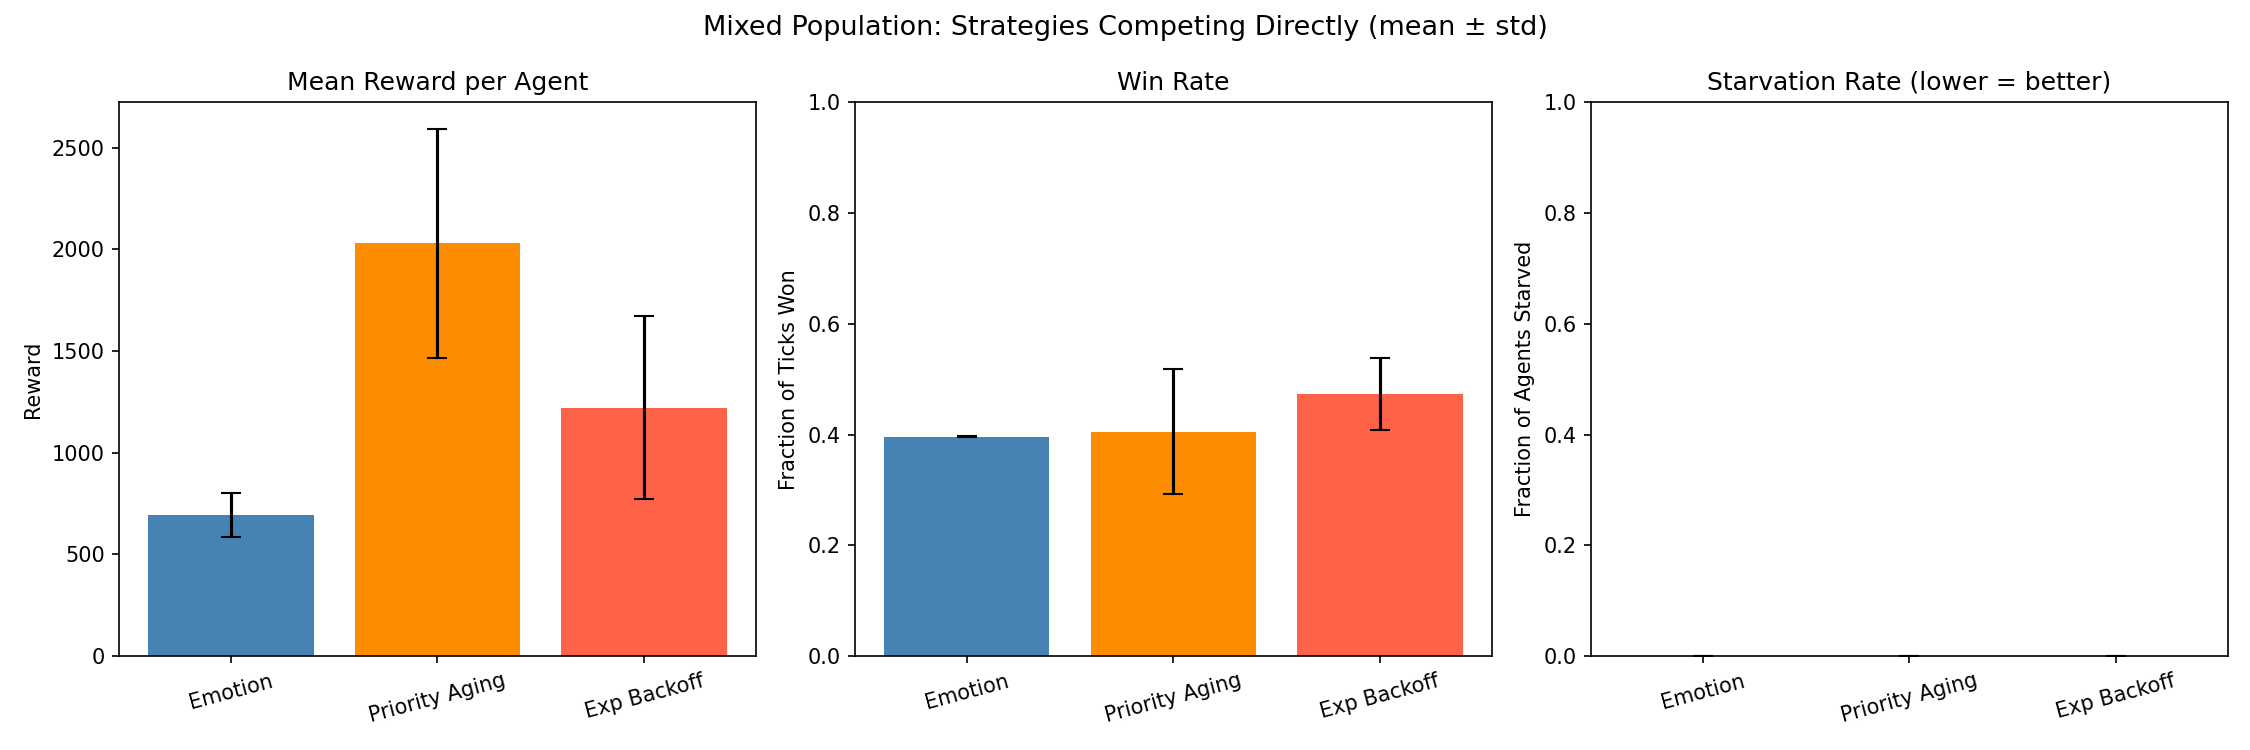
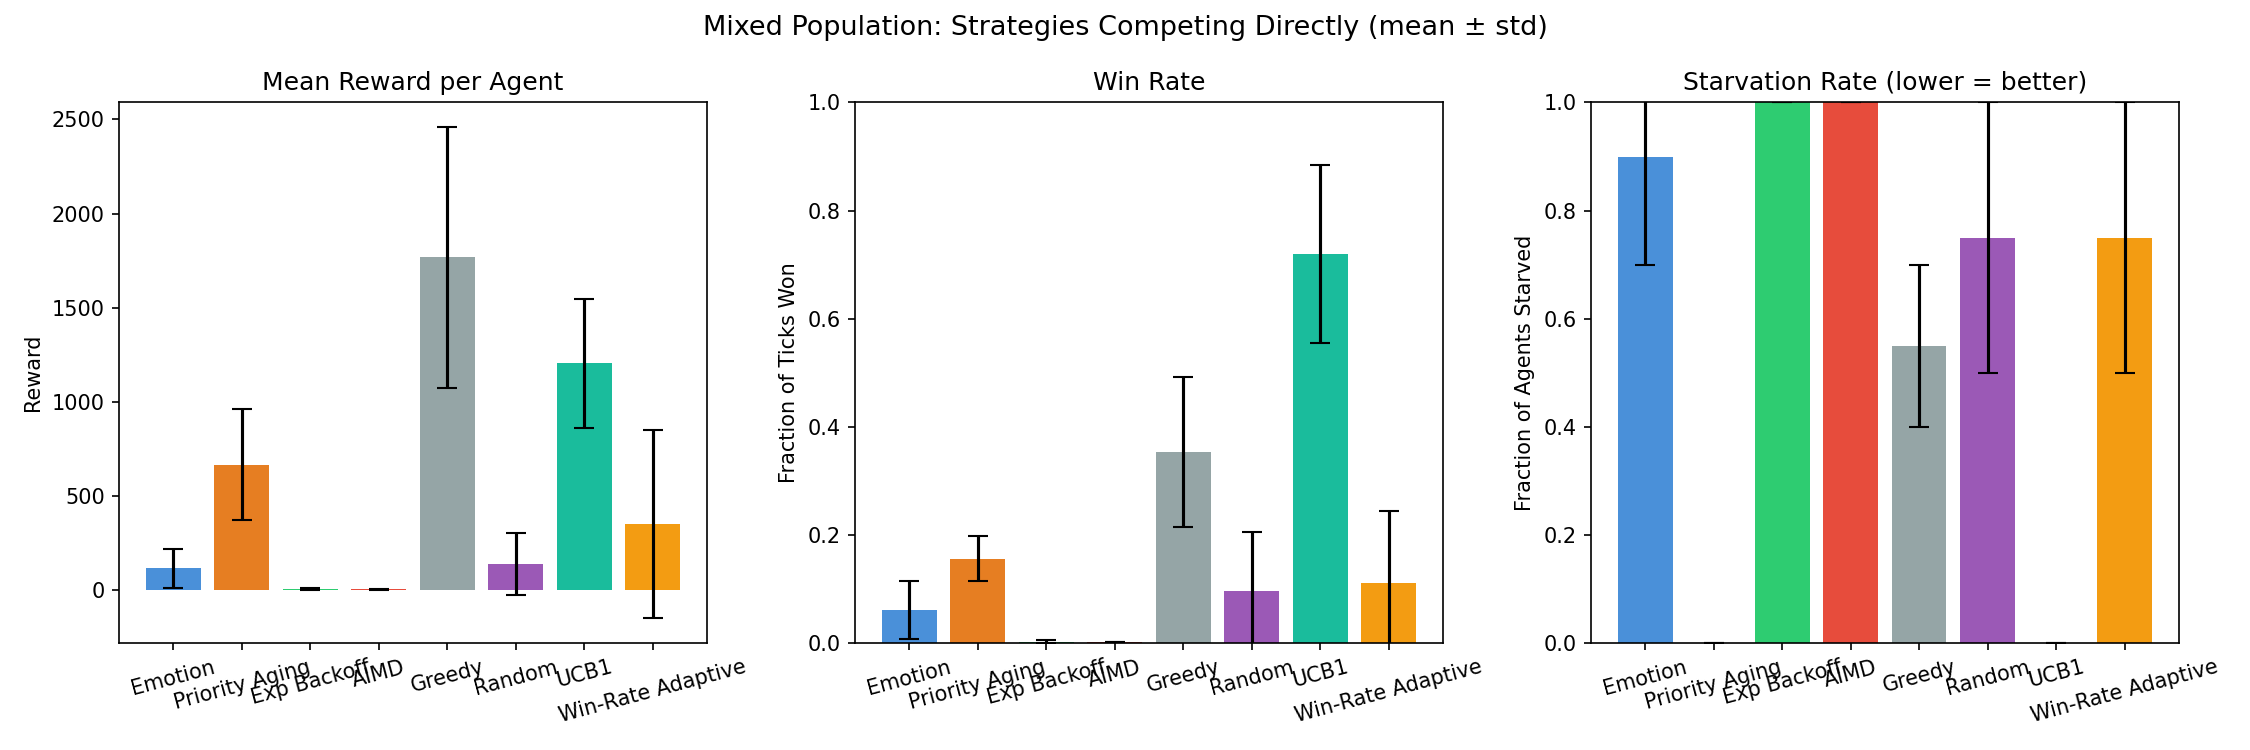
more updates of testing and readme

diff --git a/run_mixed.py b/run_mixed.py
@@ -21,7 +21,9 @@ import random
 import matplotlib.pyplot as plt
 
 from agents import Agent
-from baselines import ExponentialBackoffAgent, PriorityAgingAgent
+from baselines import (ExponentialBackoffAgent, PriorityAgingAgent,
+                       AIMDAgent, GreedyAgent, RandomAgent,
+                       UCB1Agent, WinRateAdaptiveAgent)
 from simulation import Simulation
 from metrics import jains_fairness_index, starvation_rate
 
@@ -30,7 +32,10 @@ from metrics import jains_fairness_index, starvation_rate
 # Mixed population factory
 # ---------------------------------------------------------------------------
 
-STRATEGY_LABELS = ['Emotion', 'Priority Aging', 'Exp Backoff']
+STRATEGY_LABELS = [
+    'Emotion', 'Priority Aging', 'Exp Backoff',
+    'AIMD', 'Greedy', 'Random', 'UCB1', 'Win-Rate Adaptive',
+]
 
 
 def make_mixed_population(per_strategy, seed=None):
@@ -44,43 +49,30 @@ def make_mixed_population(per_strategy, seed=None):
     strategy_map = {}
     agent_id = 0
 
-    # Emotion agents
-    for _ in range(per_strategy):
-        a = Agent(
-            agent_id=agent_id,
+    def attrs():
+        return dict(
             skill_level=round(rng.uniform(0.4, 1.0), 2),
             regen_rate=round(rng.uniform(5.0, 20.0), 1),
             max_energy=100.0,
-            persistence=round(rng.uniform(0.2, 0.8), 2),
-            risk_aversion=round(rng.uniform(0.1, 0.5), 2),
         )
-        strategy_map[agent_id] = 'Emotion'
-        agents.append(a)
-        agent_id += 1
 
-    # Priority aging agents
-    for _ in range(per_strategy):
-        a = PriorityAgingAgent(
-            agent_id=agent_id,
-            skill_level=round(rng.uniform(0.4, 1.0), 2),
-            regen_rate=round(rng.uniform(5.0, 20.0), 1),
-            max_energy=100.0,
-        )
-        strategy_map[agent_id] = 'Priority Aging'
-        agents.append(a)
-        agent_id += 1
+    specs = [
+        ('Emotion',           lambda aid: Agent(agent_id=aid, persistence=round(rng.uniform(0.2, 0.8), 2), risk_aversion=round(rng.uniform(0.1, 0.5), 2), **attrs())),
+        ('Priority Aging',    lambda aid: PriorityAgingAgent(agent_id=aid, **attrs())),
+        ('Exp Backoff',       lambda aid: ExponentialBackoffAgent(agent_id=aid, **attrs())),
+        ('AIMD',              lambda aid: AIMDAgent(agent_id=aid, **attrs())),
+        ('Greedy',            lambda aid: GreedyAgent(agent_id=aid, **attrs())),
+        ('Random',            lambda aid: RandomAgent(agent_id=aid, **attrs())),
+        ('UCB1',              lambda aid: UCB1Agent(agent_id=aid, **attrs())),
+        ('Win-Rate Adaptive', lambda aid: WinRateAdaptiveAgent(agent_id=aid, **attrs())),
+    ]
 
-    # Backoff agents
-    for _ in range(per_strategy):
-        a = ExponentialBackoffAgent(
-            agent_id=agent_id,
-            skill_level=round(rng.uniform(0.4, 1.0), 2),
-            regen_rate=round(rng.uniform(5.0, 20.0), 1),
-            max_energy=100.0,
-        )
-        strategy_map[agent_id] = 'Exp Backoff'
-        agents.append(a)
-        agent_id += 1
+    for label, factory in specs:
+        for _ in range(per_strategy):
+            a = factory(agent_id)
+            strategy_map[agent_id] = label
+            agents.append(a)
+            agent_id += 1
 
     return agents, strategy_map
 
@@ -204,7 +196,8 @@ def plot_mixed(all_metrics, all_fairness, save_dir='results'):
         return math.sqrt(sum((x - m) ** 2 for x in xs) / len(xs))
 
     strategies = STRATEGY_LABELS
-    colors = ['steelblue', 'darkorange', 'tomato']
+    colors = ['#4a90d9', '#e67e22', '#2ecc71', '#e74c3c',
+              '#95a5a6', '#9b59b6', '#1abc9c', '#f39c12']
 
     mean_rewards  = [mean([m[s]['mean_reward']  for m in all_metrics]) for s in strategies]
     std_rewards   = [std( [m[s]['mean_reward']  for m in all_metrics]) for s in strategies]

diff --git a/README.md b/README.md
@@ -227,6 +227,24 @@ deviation = mean(|rᵢ - ideal|) / ideal
 
 A strategy that achieves equal distribution but wastes resources through collisions will score poorly here. Lower is better; 0.0 means every agent received exactly their ideal share. This metric was added after observing that Priority Aging looked competitive on Jain's fairness despite agents repeatedly colliding on Tier 1 and wasting bids.
 
+### Interpretability
+
+Every agent decision is fully explainable by its internal state. Example output:
+
+```
+Agent 3 | tick decision:
+  target tier : 1
+  speed used  : 0.7  (bid=0.367)
+  frustration : 0.25 (before) → 0.10 (after)  |  action: try_harder
+  reinforcement: 0.99  social_cost: 0.0
+  weights     : try_harder=0.353  give_up=0.561  stay=0.087
+  energy      : 92.5 / 100.0
+  outcome     : WON  reward=10
+```
+
+The agent targeted tier 1, committed high speed because frustration triggered try_harder
+(sampled from learned weights), won, and frustration decayed as a result. No black box.
+
 ---
 
 ## Project Structure
@@ -247,7 +265,8 @@ results/        — Output plots
 
 ---
 
-## Results (6 agents, 200 ticks, 10 seeds)
+## Results
+### Homogenous Test Results (1 Strategy, 6 agents, 200 ticks, 10 seeds)
 
 | Condition | Jain's Fairness | Starvation Rate | Ideal Share Deviation |
 |-----------|----------------|-----------------|----------------------|
@@ -270,7 +289,7 @@ fair share of available resources (lower = more efficient and equitable; 0.0 = p
 
 ### Key Findings
 
-**All emotion conditions outperform all baselines on fairness and starvation.**
+**At 6 agents, emotion conditions outperform all baselines on fairness and starvation.**
 The emotion system achieves 0.93–0.95 fairness with zero starvation across all variants.
 Priority Aging is the best baseline at 0.80 fairness, but with high variance and an ideal
 share deviation of ~0.47 — more than double the emotion agents' ~0.20.
@@ -289,81 +308,65 @@ Seeing others' frustration without acting socially helps agents time their bids 
 but adding the social cost mechanic causes some over-adjustment. More information is not
 always better.
 
-### Scaling Results
+## Scaling Results
 
 The scaling experiment varies agent count from 2 to 30 (averaged over 10 seeds):
+![alt text](image.png)
 
 **Emotion agents perform best from 2–8 agents on all three metrics.** At ~8 agents
 (roughly 2.7 agents per tier), a crossover occurs: Priority Aging becomes more efficient
 on ideal share deviation while emotion agents fall behind. Fairness and starvation
-advantages for emotion agents also erode at high N.
+advantages for emotion agents also erode at about the same ~8 agent threshold.
 
 **The key limitation: emotion agents don't scale well.** The frustration-based backing-off
-behavior is adaptive in small groups but becomes a liability under high collision pressure
-— agents retreat to lower tiers and leave Tier 1 rewards unclaimed. Priority Aging's
-aggressive always-Tier-1 approach is more efficient when competition is intense enough
-that cooperation yields diminishing returns.
+behavior is adaptive in small groups but becomes a liability under high collision pressure. Agents retreat to lower tiers and leave Tier 1 rewards unclaimed. Priority Aging's aggressive always-Tier-1 approach is more efficient when competition is intense enough that cooperation yields diminishing returns.
 
 This defines the operating regime of emotion-based regulation: it is the right strategy
-when the agent-to-resource ratio is low (small groups, sufficient tiers). Beyond that
-threshold, simpler aggressive strategies win on efficiency.
+when the agent-to-resource ratio is low (small agent count to number of tiers) Our experment demonstrates erosion at 8/3 where Priority Aging becomes more affective.  Emotion-based still beats out all other strategies measured throughout the scaling test. 
 
-### Interpretability
+## Mixed Population Results (2 per strategy = 16 agents, 500 ticks, 10 seeds)
 
-Every agent decision is fully explainable by its internal state. Example output:
-
-```
-Agent 3 | tick decision:
-  target tier : 1
-  speed used  : 0.7  (bid=0.367)
-  frustration : 0.25 (before) → 0.10 (after)  |  action: try_harder
-  reinforcement: 0.99  social_cost: 0.0
-  weights     : try_harder=0.353  give_up=0.561  stay=0.087
-  energy      : 92.5 / 100.0
-  outcome     : WON  reward=10
-```
-
-The agent targeted tier 1, committed high speed because frustration triggered try_harder
-(sampled from learned weights), won, and frustration decayed as a result. No black box.
-
----
-
-## Mixed Population Results (2 per strategy = 6 agents, 500 ticks, 10 seeds)
-
-To address the homogeneous population limitation, a second experiment ran all three
+To address the homogeneous population limitation, a second experiment ran all eight
 strategies competing simultaneously in the same simulation.
+![alt text](image-1.png)
+
+Overall system fairness collapsed to **0.2298 ± 0.062** — far below the 0.93 seen in
+homogeneous emotion populations.
 
 | Strategy | Mean Reward | Win Rate | Starvation |
 |----------|-------------|----------|------------|
-| Priority Aging | **2028.8 ± 563** | 0.406 ± 0.113 | 0.000 |
-| Exp Backoff | 1221.3 ± 450 | **0.474 ± 0.065** | 0.000 |
-| Emotion | 694.0 ± 106 | 0.397 ± 0.001 | **0.000** |
-
-Overall system fairness collapsed to **0.6739 ± 0.097** — far below the 0.93 seen in
-homogeneous emotion populations. With tier-aware baselines, backoff becomes significantly
-more competitive (mean reward 1221 vs 730 previously), making the mixed population
-results more meaningful.
+| Greedy | **1767.0 ± 692.6** | 0.353 ± 0.139 | 0.550 |
+| UCB1 | 1205.2 ± 342.5 | **0.720 ± 0.165** | 0.000 |
+| Priority Aging | 665.5 ± 293.5 | 0.155 ± 0.042 | 0.000 |
+| Win-Rate Adaptive | 349.1 ± 498.5 | 0.110 ± 0.134 | 0.750 |
+| Random | 138.2 ± 164.6 | 0.096 ± 0.109 | 0.750 |
+| Emotion | 114.9 ± 104.7 | 0.060 ± 0.054 | 0.900 |
+| Exp Backoff | 3.2 ± 4.3 | 0.002 ± 0.002 | 1.000 |
+| AIMD | 2.7 ± 2.0 | 0.001 ± 0.001 | 1.000 |
 
 ### What This Reveals
 
-**Priority aging exploits emotional cooperation.** When emotion agents get frustrated
-and migrate to lower tiers, priority aging agents accumulate priority and hammer tier 1
-unopposed. The social cost mechanic — designed to make dominant agents yield — causes
-emotion agents to yield ground that priority aging agents immediately occupy.
+**Aggressive strategies dominate in a fully mixed population.** Greedy wins the most
+reward by always targeting Tier 1, and UCB1 achieves the highest win rate by efficiently
+learning which tier has the least competition. Neither yields, and in a field of 8
+competing strategies, that aggression pays off.
+
+**Emotion agents are severely exploited.** With 90% starvation and only 6% win rate,
+emotion agents get crowded out almost completely. Though, Exponential Backoff and AIMD still are crowded out even more and perform even worse. The cooperative backing-off behavior, useful
+in homogeneous populations, becomes a liability when surrounded by multiple aggressive
+strategies simultaneously. There is simply no room to back off into.
+
+**Exp Backoff and AIMD collapse entirely.** Both starve at 100% — their wait-and-retry
+logic cannot compete when all tiers are permanently contested by aggressive agents.
 
 This is an instance of the **cooperator-defector problem** studied in evolutionary game
 theory. Emotional regulation is a cooperative strategy: it works optimally when all
-participants play by the same norms. When a purely self-interested strategy (priority
-aging never yields) enters the mix, it exploits the cooperators.
-
-**Emotion agents remain the most consistent.** Despite lower mean rewards, emotion agents
-have the tightest variance (±105 vs ±633 for priority aging). Emotion agents never
-starve and maintain stable behavior across all seeds. Priority aging wins more on average
-but is highly dependent on the specific skill distribution of that run.
+participants play by the same norms. In a fully mixed population with multiple defecting
+strategies, cooperation is not just exploited, it is eliminated.
 
 **The key insight:** emotion-based regulation is a *social contract*. Its effectiveness
 depends on adoption. In a uniform population it produces near-optimal fairness. In a
-mixed population it is exploitable — which raises the question of what enforcement or
+mixed population it is exploitable, which raises the question of what enforcement or
 incentive mechanisms would make cooperation stable.
 
 ---
@@ -423,8 +426,7 @@ attributes, not to different environmental conditions.
 - **Not a classical scheduler.** Unlike OS schedulers, agents are self-interested and
   adaptive. Fairness is emergent, not enforced.
 - **Not a complete solution.** This is a simulation with known limitations. The results
-  suggest emotion-based regulation is promising but require stronger baselines and mixed
-  population testing to fully validate.
+  suggest emotion-based regulation could be promising in homogenous, cooperative systems with small agent to reward tier ratios. But, more teting is needed to confirm.
 
 ---
 
